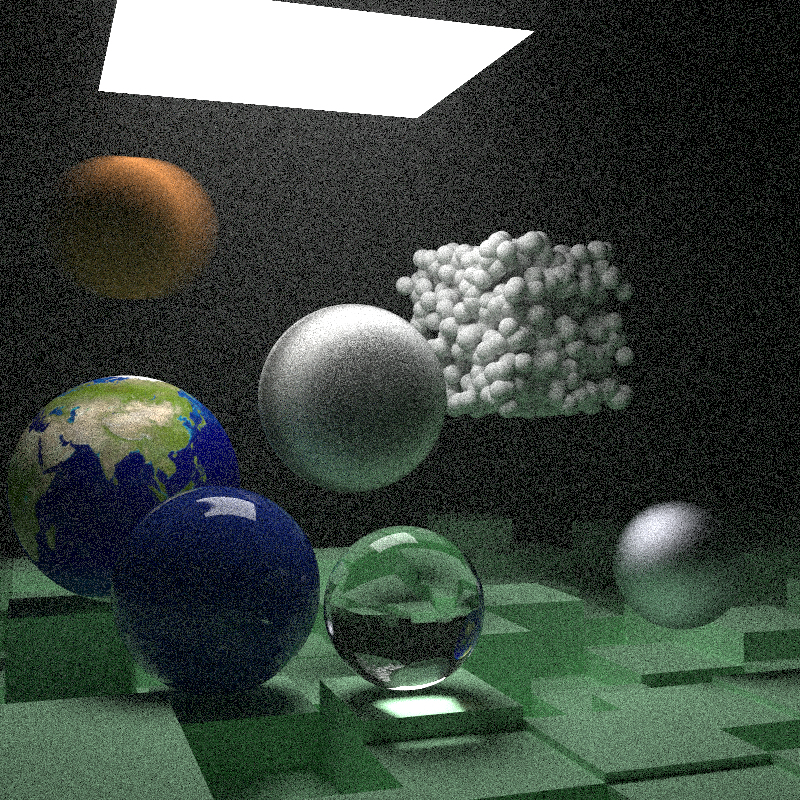
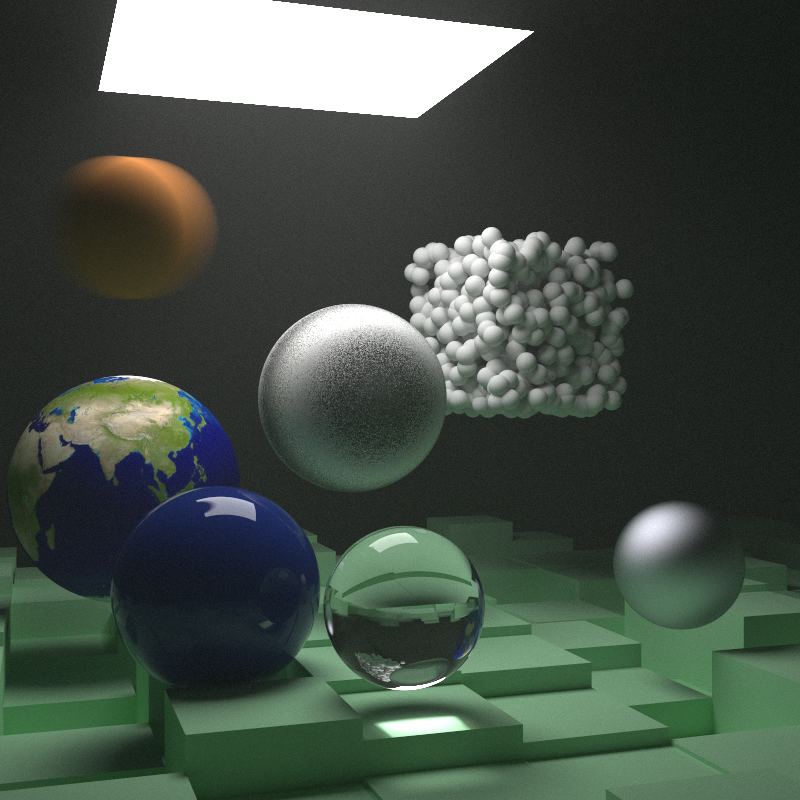
Add file tree

diff --git a/raytracer/src/hittable/aarect.rs b/raytracer/src/hittable/aarect.rs
@@ -1,10 +1,11 @@
 use std::sync::Arc;
 
 use crate::{
-    aabb::AABB,
+    basic::ray::Ray,
+    basic::vec::{Point3, Vec3},
+    hittable::bvh::aabb::AABB,
     hittable::{HitRecord, Hittable},
     material::Material,
-    vec::{Point3, Vec3},
 };
 
 pub struct XYRect {
@@ -30,19 +31,14 @@ impl XYRect {
 }
 
 impl Hittable for XYRect {
-    fn bounding_box(&self, _time0: f64, _time1: f64) -> Option<crate::aabb::AABB> {
+    fn bounding_box(&self, _time0: f64, _time1: f64) -> Option<AABB> {
         Some(AABB::new(
             Point3::new(self.x0, self.y0, self.k - 0.0001),
             Point3::new(self.x1, self.y1, self.k + 0.0001),
         ))
     }
-    fn hit(
-        &self,
-        r: crate::ray::Ray,
-        t_min: f64,
-        t_max: f64,
-    ) -> Option<crate::hittable::HitRecord> {
-        let t = (self.k - r.orig.z) / r.dir.z; // TODO
+    fn hit(&self, r: Ray, t_min: f64, t_max: f64) -> Option<crate::hittable::HitRecord> {
+        let t = (self.k - r.orig.z) / r.dir.z;
         if t < t_min || t > t_max {
             return None;
         }
@@ -93,19 +89,14 @@ impl XZRect {
 }
 
 impl Hittable for XZRect {
-    fn bounding_box(&self, _time0: f64, _time1: f64) -> Option<crate::aabb::AABB> {
+    fn bounding_box(&self, _time0: f64, _time1: f64) -> Option<AABB> {
         Some(AABB::new(
             Point3::new(self.x0, self.k - 0.0001, self.z0),
             Point3::new(self.x1, self.k + 0.0001, self.z1),
         ))
     }
-    fn hit(
-        &self,
-        r: crate::ray::Ray,
-        t_min: f64,
-        t_max: f64,
-    ) -> Option<crate::hittable::HitRecord> {
-        let t = (self.k - r.orig.y) / r.dir.y; // TODO
+    fn hit(&self, r: Ray, t_min: f64, t_max: f64) -> Option<crate::hittable::HitRecord> {
+        let t = (self.k - r.orig.y) / r.dir.y;
         if t < t_min || t > t_max {
             return None;
         }
@@ -156,19 +147,14 @@ impl YZRect {
 }
 
 impl Hittable for YZRect {
-    fn bounding_box(&self, _time0: f64, _time1: f64) -> Option<crate::aabb::AABB> {
+    fn bounding_box(&self, _time0: f64, _time1: f64) -> Option<AABB> {
         Some(AABB::new(
             Point3::new(self.k - 0.0001, self.y0, self.z0),
             Point3::new(self.k + 0.0001, self.y1, self.z1),
         ))
     }
-    fn hit(
-        &self,
-        r: crate::ray::Ray,
-        t_min: f64,
-        t_max: f64,
-    ) -> Option<crate::hittable::HitRecord> {
-        let t = (self.k - r.orig.x) / r.dir.x; // TODO
+    fn hit(&self, r: Ray, t_min: f64, t_max: f64) -> Option<crate::hittable::HitRecord> {
+        let t = (self.k - r.orig.x) / r.dir.x;
         if t < t_min || t > t_max {
             return None;
         }

diff --git a/raytracer/src/hittable/constantmedium.rs b/raytracer/src/hittable/constantmedium.rs
@@ -3,10 +3,12 @@ use std::{f64::consts::E, sync::Arc};
 use rand::Rng;
 
 use crate::{
+    basic::ray::Ray,
+    basic::vec::{Color, Vec3},
+    hittable::bvh::aabb::AABB,
     hittable::{HitRecord, Hittable},
     material::{Isotropic, Material},
     texture::Texture,
-    vec::{Color, Vec3},
 };
 
 pub struct ConstantMedium {
@@ -34,15 +36,10 @@ impl ConstantMedium {
 }
 
 impl Hittable for ConstantMedium {
-    fn bounding_box(&self, time0: f64, time1: f64) -> Option<crate::aabb::AABB> {
+    fn bounding_box(&self, time0: f64, time1: f64) -> Option<AABB> {
         self.boundary.bounding_box(time0, time1)
     }
-    fn hit(
-        &self,
-        r: crate::ray::Ray,
-        t_min: f64,
-        t_max: f64,
-    ) -> Option<crate::hittable::HitRecord> {
+    fn hit(&self, r: Ray, t_min: f64, t_max: f64) -> Option<crate::hittable::HitRecord> {
         if let Some(mut rec1) = self.boundary.hit(r, f64::NEG_INFINITY, f64::INFINITY) {
             if let Some(mut rec2) = self.boundary.hit(r, rec1.t + 0.0001, f64::INFINITY) {
                 rec1.t = rec1.t.max(t_min);
@@ -78,28 +75,3 @@ impl Hittable for ConstantMedium {
         }
     }
 }
-
-//class constant_medium : public hittable {
-//    public:
-//        constant_medium(shared_ptr<hittable> b, double d, shared_ptr<texture> a)
-//            : boundary(b),
-//              neg_inv_density(-1/d),
-//              phase_function(make_shared<isotropic>(a))
-//            {}
-//
-//        constant_medium(shared_ptr<hittable> b, double d, color c)
-//            : boundary(b),
-//              neg_inv_density(-1/d),
-//              phase_function(make_shared<isotropic>(c))
-//            {}
-//
-//        virtual bool hit(
-//            const ray& r, double t_min, double t_max, hit_record& rec) const override;
-//
-//        virtual bool bounding_box(double time0, double time1, aabb& output_box) const override {
-//            return boundary->bounding_box(time0, time1, output_box);
-//        }
-//
-//    public:
-//};
-//

diff --git a/raytracer/src/main.rs b/raytracer/src/main.rs
@@ -1,39 +1,30 @@
-mod aabb;
-mod aarect;
-mod boxes;
-mod bvh;
-mod camera;
-mod constantmedium;
+mod basic;
 mod hittable;
 mod material;
-mod perlin;
-mod ray;
-mod sphere;
 mod texture;
-mod vec;
 
-use aarect::{XYRect, XZRect, YZRect};
-use boxes::Boxes;
-use camera::Camera;
 use console::style;
-use constantmedium::ConstantMedium;
-use hittable::{Hittable, HittableList, RotateY, Translate};
 use image::{ImageBuffer, RgbImage};
 use indicatif::{MultiProgress, ProgressBar, ProgressStyle};
-use material::{Dielectric, DiffuseLight, Lambertian, Metal};
 use rand::Rng;
-use ray::Ray;
-use sphere::{MovingSphere, Sphere};
 use std::{
     fs::File,
     process::exit,
     sync::{mpsc, Arc},
     thread,
 };
-use texture::{CheckerTexture, ImageTexture, NoiseTexture};
-use vec::{Color, Point3, Vec3};
 
-use crate::bvh::BvhNode;
+use basic::camera::Camera;
+use basic::ray::Ray;
+use basic::vec::{Color, Point3, Vec3};
+use hittable::aarect::{XYRect, XZRect, YZRect};
+use hittable::boxes::Boxes;
+use hittable::bvh::BvhNode;
+use hittable::constantmedium::ConstantMedium;
+use hittable::sphere::{MovingSphere, Sphere};
+use hittable::{Hittable, HittableList, RotateY, Translate};
+use material::{Dielectric, DiffuseLight, Lambertian, Metal};
+use texture::{CheckerTexture, ImageTexture, NoiseTexture};
 
 fn main() {
     print!("{}[2J", 27 as char); // Clear screen
@@ -45,9 +36,9 @@ fn main() {
     const IMAGE_HEIGHT: u32 = 800;
     const ASPECT_RATIO: f64 = IMAGE_WIDTH as f64 / IMAGE_HEIGHT as f64;
     const IMAGE_QUALITY: u8 = 100; // From 0 to 100
-    const SAMPLES_PER_PIXEL: i32 = 200;
+    const SAMPLES_PER_PIXEL: i32 = 10000;
     const MAX_DEPTH: i32 = 60;
-    const THREAD_NUMBER: u32 = 7;
+    const THREAD_NUMBER: u32 = 8;
     const SECTION_LINE_NUM: u32 = IMAGE_HEIGHT / THREAD_NUMBER;
 
     let vup = Vec3::new(0., 1., 0.);

diff --git a/raytracer/src/hittable/bvh/mod.rs b/raytracer/src/hittable/bvh/mod.rs
@@ -1,10 +1,12 @@
+pub mod aabb;
+
+use rand::Rng;
 use std::cmp::Ordering;
 use std::sync::Arc;
 
-use rand::Rng;
-
-use super::aabb::AABB;
+use crate::basic::ray::Ray;
 use crate::hittable::{Hittable, HittableList};
+use aabb::AABB;
 
 #[derive(Clone)]
 pub struct BvhNode {
@@ -25,15 +27,6 @@ impl BvhNode {
             Ordering::Equal
         }
     }
-    // pub fn box_x_compare(a: Arc<dyn Hittable>, b: Arc<dyn Hittable>) -> Ordering {
-    //     BvhNode::box_compare(a, b, 0)
-    // }
-    // pub fn box_y_compare(a: Arc<dyn Hittable>, b: Arc<dyn Hittable>) -> Ordering {
-    //     BvhNode::box_compare(a, b, 1)
-    // }
-    // pub fn box_z_compare(a: Arc<dyn Hittable>, b: Arc<dyn Hittable>) -> Ordering {
-    //     BvhNode::box_compare(a, b, 2)
-    // }
     pub fn new_list(list: &HittableList, time0: f64, time1: f64) -> Self {
         BvhNode::new_vec(list.objects.clone(), time0, time1)
     }
@@ -90,12 +83,7 @@ impl BvhNode {
 
 impl Hittable for BvhNode {
     #[allow(clippy::manual_map)]
-    fn hit(
-        &self,
-        r: crate::ray::Ray,
-        t_min: f64,
-        t_max: f64,
-    ) -> Option<crate::hittable::HitRecord> {
+    fn hit(&self, r: Ray, t_min: f64, t_max: f64) -> Option<crate::hittable::HitRecord> {
         if !self.aabbox.hit(r, t_min, t_max) {
             return None;
         }

diff --git a/raytracer/src/hittable/boxes.rs b/raytracer/src/hittable/boxes.rs
@@ -1,11 +1,12 @@
 use std::sync::Arc;
 
 use crate::{
-    aabb::AABB,
-    aarect::{XYRect, XZRect, YZRect},
+    basic::ray::Ray,
+    basic::vec::Point3,
+    hittable::aarect::{XYRect, XZRect, YZRect},
+    hittable::bvh::aabb::AABB,
     hittable::{Hittable, HittableList},
     material::Material,
-    vec::Point3,
 };
 
 pub struct Boxes {
@@ -70,15 +71,10 @@ impl Boxes {
 }
 
 impl Hittable for Boxes {
-    fn bounding_box(&self, _time0: f64, _time1: f64) -> Option<crate::aabb::AABB> {
+    fn bounding_box(&self, _time0: f64, _time1: f64) -> Option<AABB> {
         Some(AABB::new(self.min, self.max))
     }
-    fn hit(
-        &self,
-        r: crate::ray::Ray,
-        t_min: f64,
-        t_max: f64,
-    ) -> Option<crate::hittable::HitRecord> {
+    fn hit(&self, r: Ray, t_min: f64, t_max: f64) -> Option<crate::hittable::HitRecord> {
         self.sides.hit(r, t_min, t_max)
     }
 }

diff --git a/raytracer/src/material/mod.rs b/raytracer/src/material/mod.rs
@@ -2,12 +2,11 @@ use std::sync::Arc;
 
 use rand::Rng;
 
-use super::vec::reflect;
 use crate::{
+    basic::ray::Ray,
+    basic::vec::{random_in_unit_sphere, reflect, refract, Color, Point3, Vec3},
     hittable::HitRecord,
-    ray::Ray,
     texture::{SolidColor, Texture},
-    vec::{random_in_unit_sphere, refract, Color, Point3, Vec3},
 };
 
 pub trait Material: Send + Sync {
@@ -168,7 +167,7 @@ impl Material for Isotropic {
     fn scatter(&self, r_in: Ray, rec: &HitRecord) -> Option<(Color, Ray)> {
         Some((
             self.albedo.value(rec.u, rec.v, rec.p),
-            Ray::new(rec.p, super::vec::random_in_unit_sphere(), r_in.tm),
+            Ray::new(rec.p, random_in_unit_sphere(), r_in.tm),
         ))
     }
 }

diff --git a/raytracer/src/hittable/sphere.rs b/raytracer/src/hittable/sphere.rs
@@ -1,11 +1,11 @@
 use std::f64::consts::PI;
 use std::sync::Arc;
 
-use super::aabb::AABB;
-use super::hittable::{HitRecord, Hittable};
-use super::material::Material;
-use super::ray::Ray;
-use super::vec::{Point3, Vec3};
+use crate::basic::ray::Ray;
+use crate::basic::vec::{Point3, Vec3};
+use crate::hittable::bvh::aabb::AABB;
+use crate::hittable::{HitRecord, Hittable};
+use crate::material::Material;
 
 pub struct Sphere {
     pub center: Point3,

diff --git a/raytracer/src/hittable/mod.rs b/raytracer/src/hittable/mod.rs
@@ -1,9 +1,15 @@
+pub mod aarect;
+pub mod boxes;
+pub mod bvh;
+pub mod constantmedium;
+pub mod sphere;
+
 use std::sync::Arc;
 
-use super::aabb::AABB;
+use super::basic::ray::Ray;
+use super::basic::vec::{Point3, Vec3};
+use super::hittable::bvh::aabb::AABB;
 use super::material::Material;
-use super::ray::Ray;
-use super::vec::{Point3, Vec3};
 
 pub struct HitRecord {
     pub p: Point3,

diff --git a/raytracer/src/texture/mod.rs b/raytracer/src/texture/mod.rs
@@ -1,9 +1,11 @@
+pub mod perlin;
+
 use std::sync::Arc;
 
 use image::GenericImageView;
 
-use super::perlin::Perlin;
-use super::vec::{Color, Point3};
+use crate::basic::vec::{Color, Point3};
+use crate::texture::perlin::Perlin;
 
 pub trait Texture: Send + Sync {
     fn value(&self, u: f64, v: f64, p: Point3) -> Color;

diff --git a/raytracer/src/basic/camera.rs b/raytracer/src/basic/camera.rs
@@ -1,6 +1,6 @@
 use rand::Rng;
 
-use crate::vec::random_in_unit_disk;
+use crate::basic::vec::random_in_unit_disk;
 
 use super::ray::Ray;
 use super::vec::{Point3, Vec3};

diff --git a/raytracer/src/hittable/bvh/aabb.rs b/raytracer/src/hittable/bvh/aabb.rs
@@ -1,5 +1,5 @@
-use super::ray::Ray;
-use super::vec::Point3;
+use crate::basic::ray::Ray;
+use crate::basic::vec::Point3;
 
 #[derive(Clone, Copy)]
 pub struct AABB {

diff --git a/raytracer/src/texture/perlin.rs b/raytracer/src/texture/perlin.rs
@@ -1,6 +1,6 @@
 use rand::Rng;
 
-use crate::vec::{Point3, Vec3};
+use crate::basic::vec::{Point3, Vec3};
 
 const POINT_COUNT: usize = 256;
 
